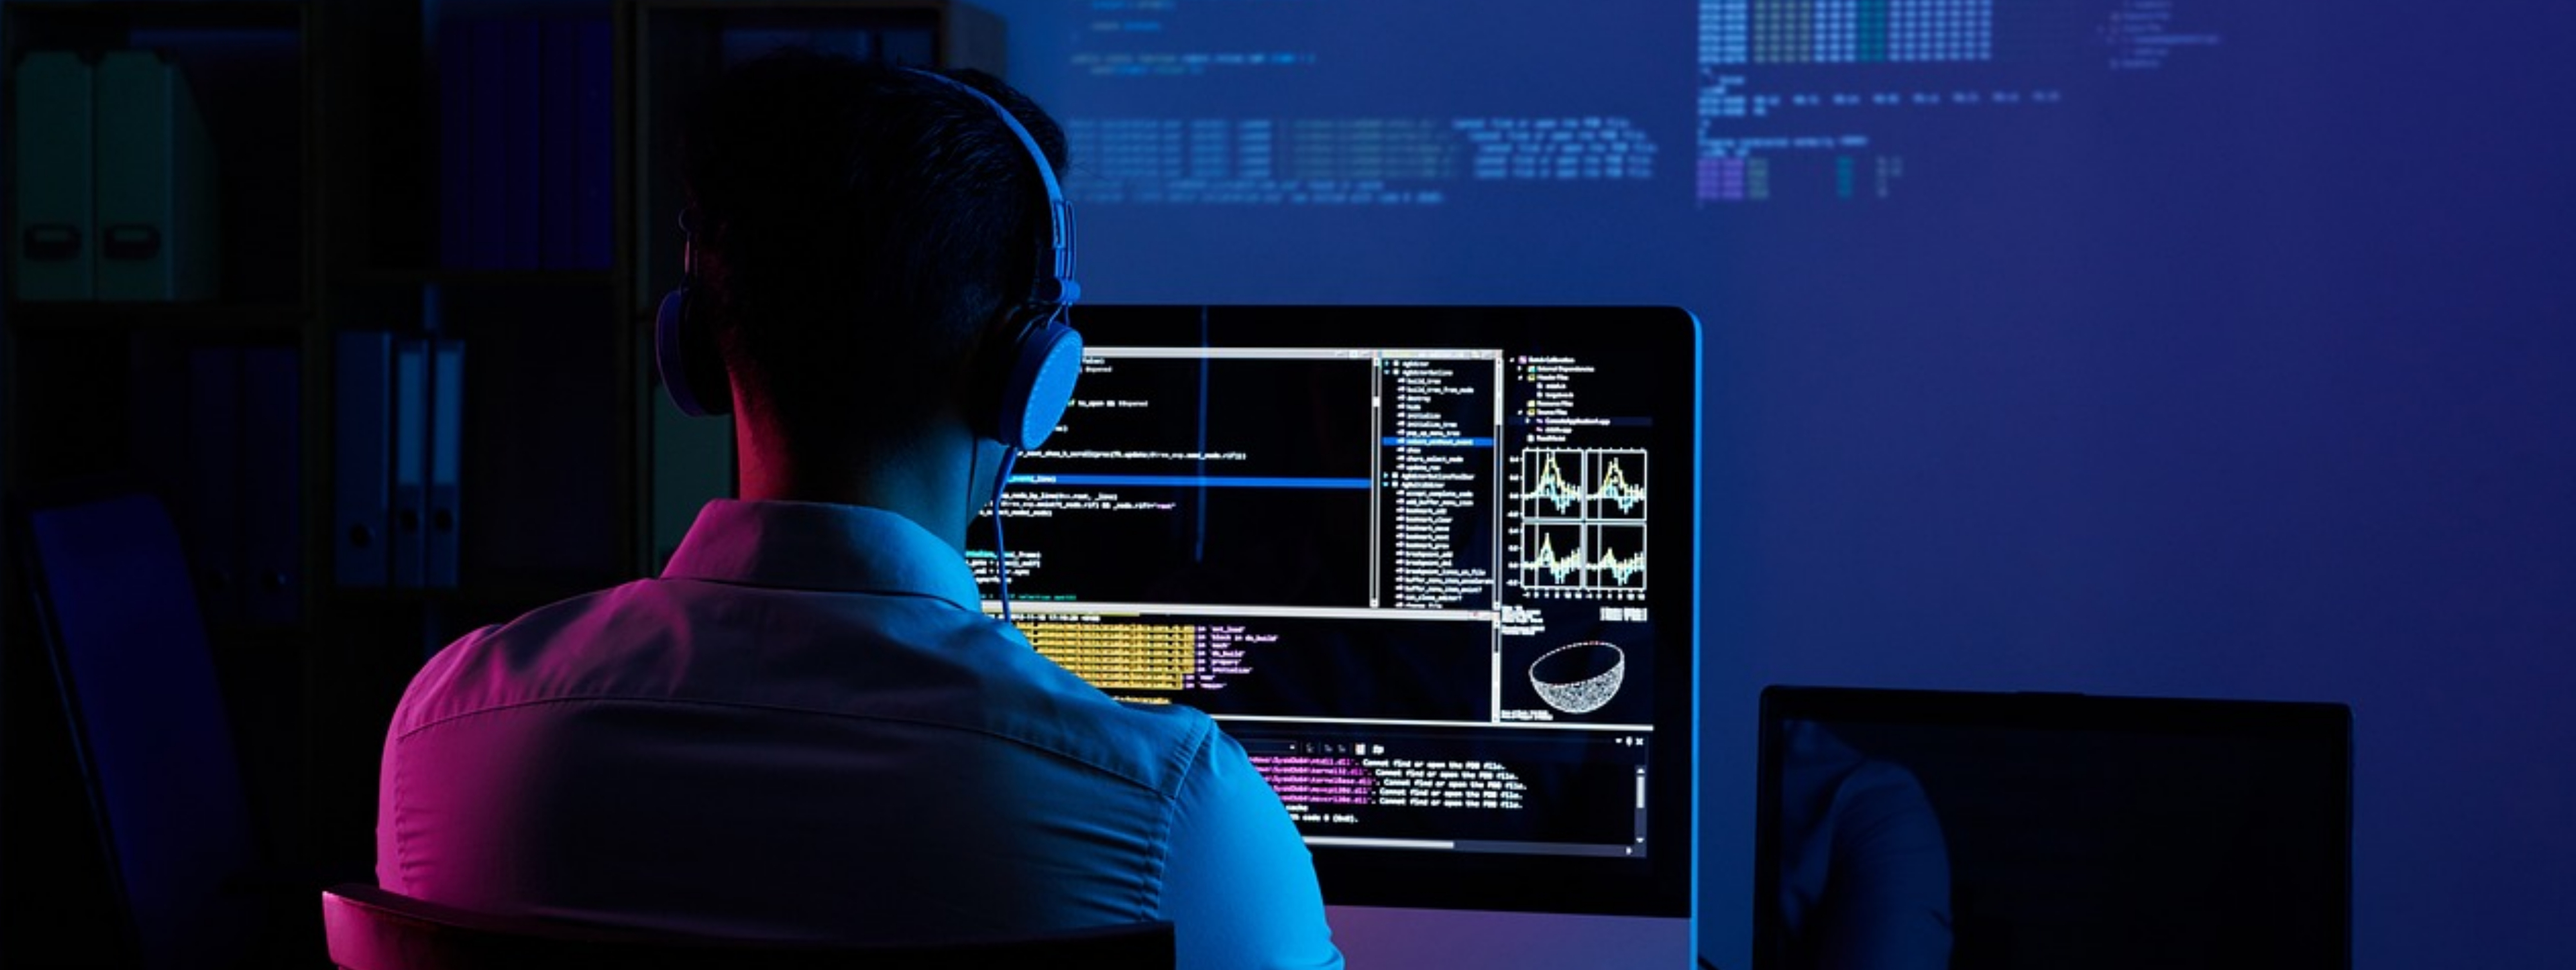
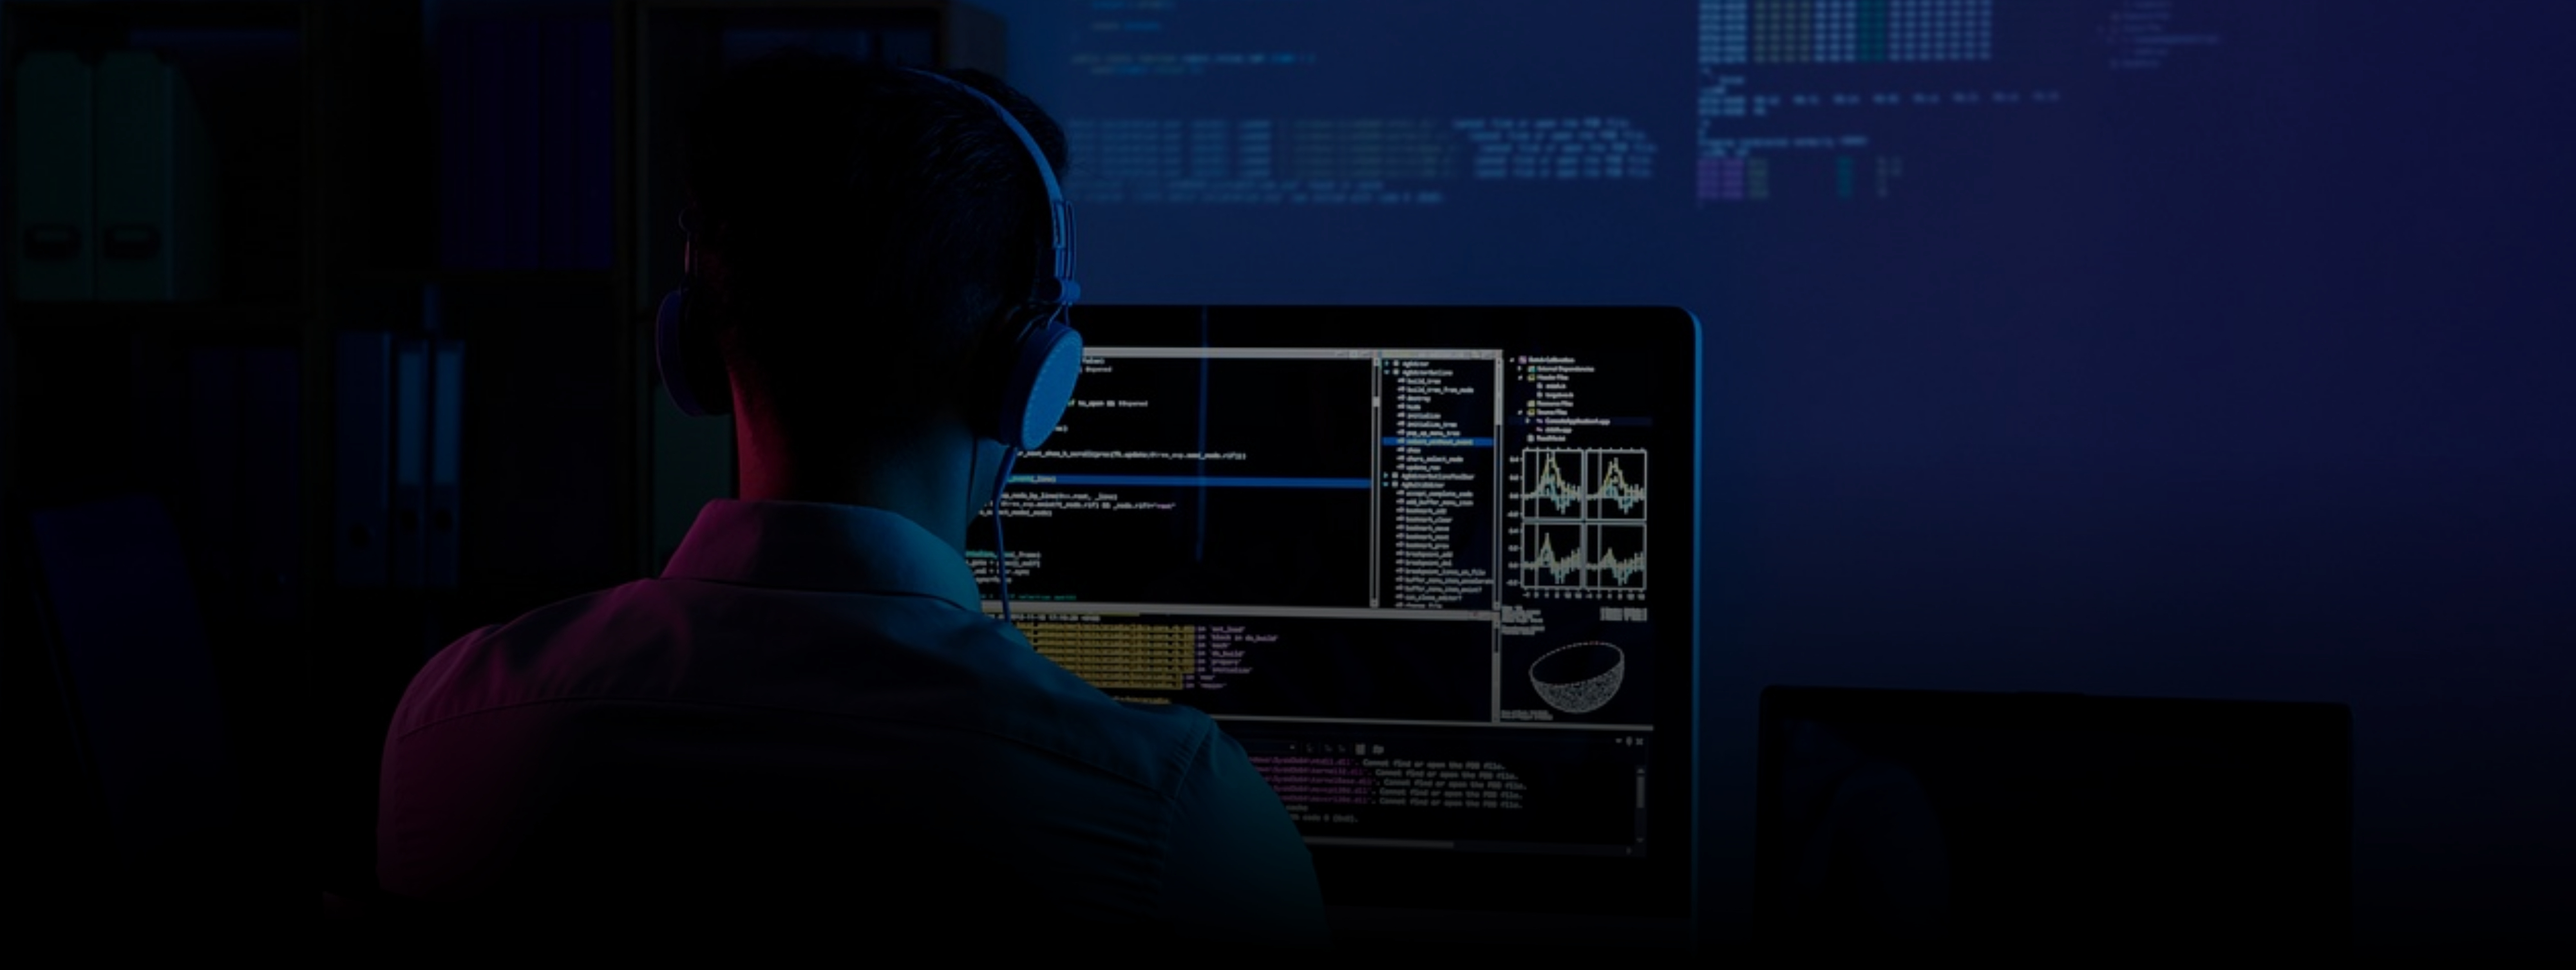
Introduction Alterations Style
Mr.Matheus and Mrs Gustavo and Thiago work

diff --git a/project-leia/src/pages/introductionPage/index.js b/project-leia/src/pages/introductionPage/index.js
@@ -5,12 +5,14 @@ import Instagram from "./images/Instagram.png";
 import linkedin from "./images/linkedin.png";
 import "./style.css";
 import WebFont from 'webfontloader';
-
+import BlobFunction from "../../MouseMove/MouseMove";
 
 function IntroductionPage() {
   let navigate = useNavigate();
 
-
+  React.useEffect(() => {
+    BlobFunction();
+  }, []);
   
     WebFont.load({
       google: {
@@ -22,6 +24,9 @@ function IntroductionPage() {
   return (
 
     <div className="IntroductionPage">
+     
+     <div className="align-top">
+
      
      
       <div className="topBar">
@@ -43,8 +48,12 @@ function IntroductionPage() {
           </button>
 
           
+          </div>
         </div>
-        <div className="QuadradoBranco">
+    </div>
+
+        <div className="align-center">
+          <div className="QuadradoBranco">
 
 
           <div style={{fontFamily: 'Space Grotesk'}}>
@@ -52,10 +61,12 @@ function IntroductionPage() {
 Aqui você encontrará uma solução rápida e prática para sua documentação de códigos, com nossa inteligência artificial eleve a qualidade de seus projetos e economize seu tempo! </p>
 
           </div>
+        </div>
       </div>
+
       
       
-    </div>
+   <div className="align-bottom">
 
 <div className="footer">
     
@@ -77,12 +88,11 @@ Aqui você encontrará uma solução rápida e prática para sua documentação 
 </div>
 
 
-    </div>
+        </div>
 
-
-
-
-
+      </div>' '
+      <div id="blob"></div>
+      <div id="blur"></div>
     </div>
     
     

diff --git a/project-leia/src/pages/introductionPage/style.css b/project-leia/src/pages/introductionPage/style.css
@@ -5,32 +5,53 @@
   width: 100%;
   height: 60px;
   box-shadow: 0px 2px 50px rgb(11, 11, 14);
+
 }
 
 .QuadradoBranco {
-  position: absolute;
   width: 620px;
   height: 35%;
-  left: 73px;
-  top: 300px;
   align-items: center;
   display: flex;
-  background: #ffffff;
-  box-shadow: 0px 4px 4px 2px rgba(0, 0, 0, 0.25);
   border-radius: 20px;
+  background: #3a415a70;
+  box-shadow: 0 2px 2px 0 rgba(255, 255, 255, 0.37);
+  backdrop-filter: blur(3.5px);
+  -webkit-backdrop-filter: blur(3.5px);
+border:solid 2px #cbdad5;
+  z-index: 999;
+  overflow: hidden;
 }
 
 .IntroductionPage {
   background-image: url("./images/FotoHome.jpg");
   width: 100%;
-  height: 50vh;
-  background-size: 100%;
+  height: 100vh;
+  background-size: cover;
   background-position: center;
   background-repeat: no-repeat;
   position: relative;
   display: flex;
   flex-direction: column;
+
 }
+
+
+.align-center {
+  width: 100%;
+}
+
+.align-top {
+  z-index: 999;
+  width: 100%;
+}
+
+.align-bottom {
+  z-index: 999;
+  width: 100%;
+  align-self: flex-end;
+}
+
 
 .alignRight {
   display: flex;
@@ -95,12 +116,13 @@ html {
 .IntroductionTexto {
   font-family: "Space Grotesk";
   font-size: 20px;
+  color: #ffffff;
 }
 
 .footer {
   position: relative;
-  top: 84.1vh;
   align-items: center;
+  justify-self: flex-end;
 }
 
 .cardF {
